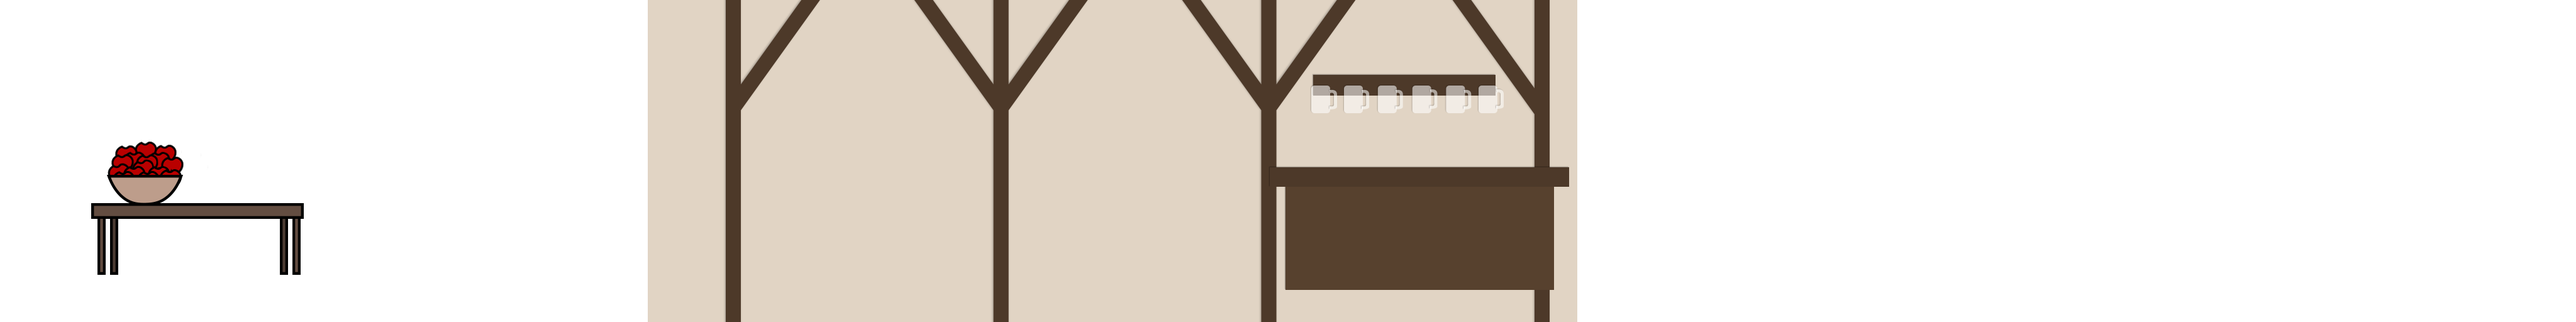
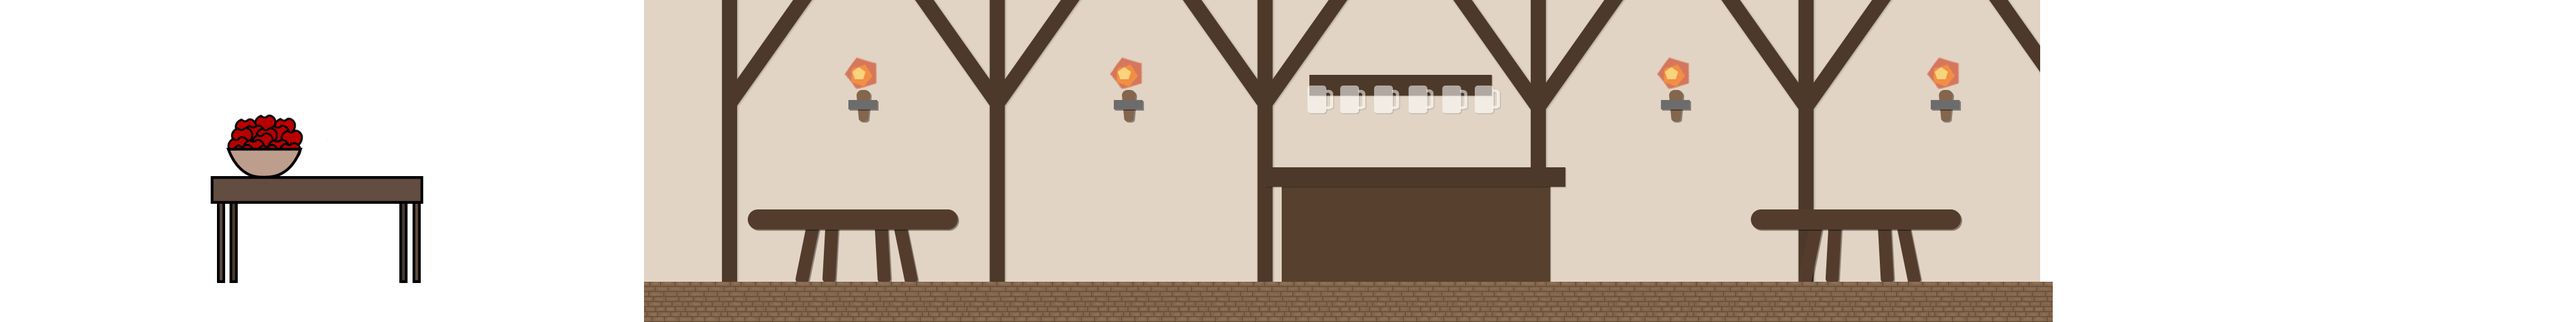
more tavern

Changed region(s): [[0.25, 0.0, 0.8125, 1.0], [0.0312, 0.3438, 0.1875, 0.875], [0.2812, 0.0, 0.3438, 0.375]]

diff --git a/GDS136/js/GameStates/menu.js b/GDS136/js/GameStates/menu.js
@@ -3,14 +3,14 @@ This file contains all of the code for the Main Menu
 ----------------------------------*/
 
 var startButton = new GameObject();
-//startButton.img.src="images/mrt.jpg"
-startButton.width=200;
+startButton.img.src="images/button.png"
+startButton.width=298;
 startButton.hitBoxWidth=800
 console.log(startButton.collisionPoints.right)
 
 
 var menuBackground = new GameObject();
-menuBackground.img.src = "images/mrt.jpg"
+menuBackground.img.src = "images/Menu.png"
 menuBackground.width=canvas.width
 menuBackground.height=canvas.height
 
@@ -26,12 +26,12 @@ gameStates[`menu`] =function(){
 		}
 
 		//Hover Effect Graffic
-		startButton.color = `yellow`
+		startButton.img.src = "images/hover.png"
 	}
 	else
 	{
 		//Default Button Graphic
-		startButton.color = `red`
+		startButton.img.src = "images/button.png"
 	}
 	
 	menuBackground.drawStaticImage();

diff --git a/GDS136/js/GameStates/level1.js b/GDS136/js/GameStates/level1.js
@@ -272,16 +272,17 @@ gameStates[`level1`] = function()
 	rbg.drawStaticImage([-rbg.width,0]);
 	rbg.drawStaticImage([rbg.width,0]);
 
-tavern.drawStaticImage([0,0])
 	
 //renders the midground
 	bg.drawStaticImage([0,0]);
+	
 	
 	//alternate methd for rendering the repeating background
 	//rbg.render(`drawStaticImage`, [0,0])
 
 	//renders the objects in the rect group
 	rects.render(`drawRect`, [0,0,100,100])
+	tavern.drawStaticImage([0,0])
 	
 	/*----Used for debugging----*/
 	/*context.beginPath()
